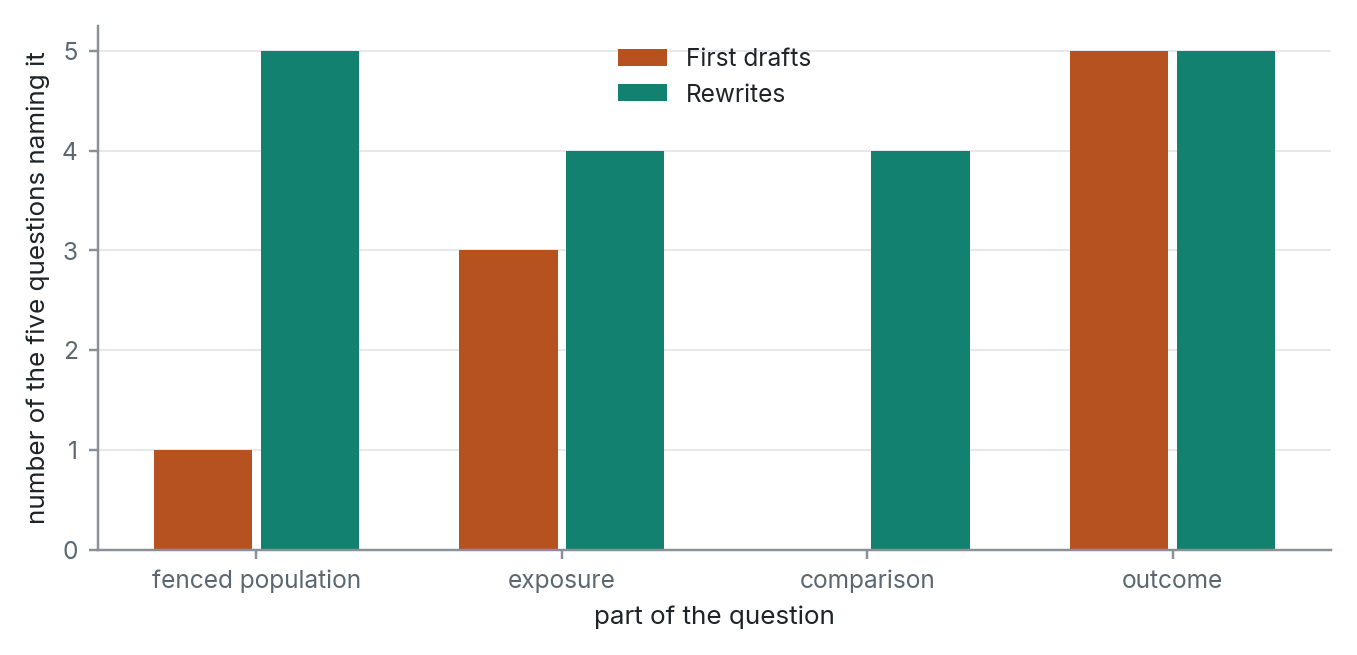
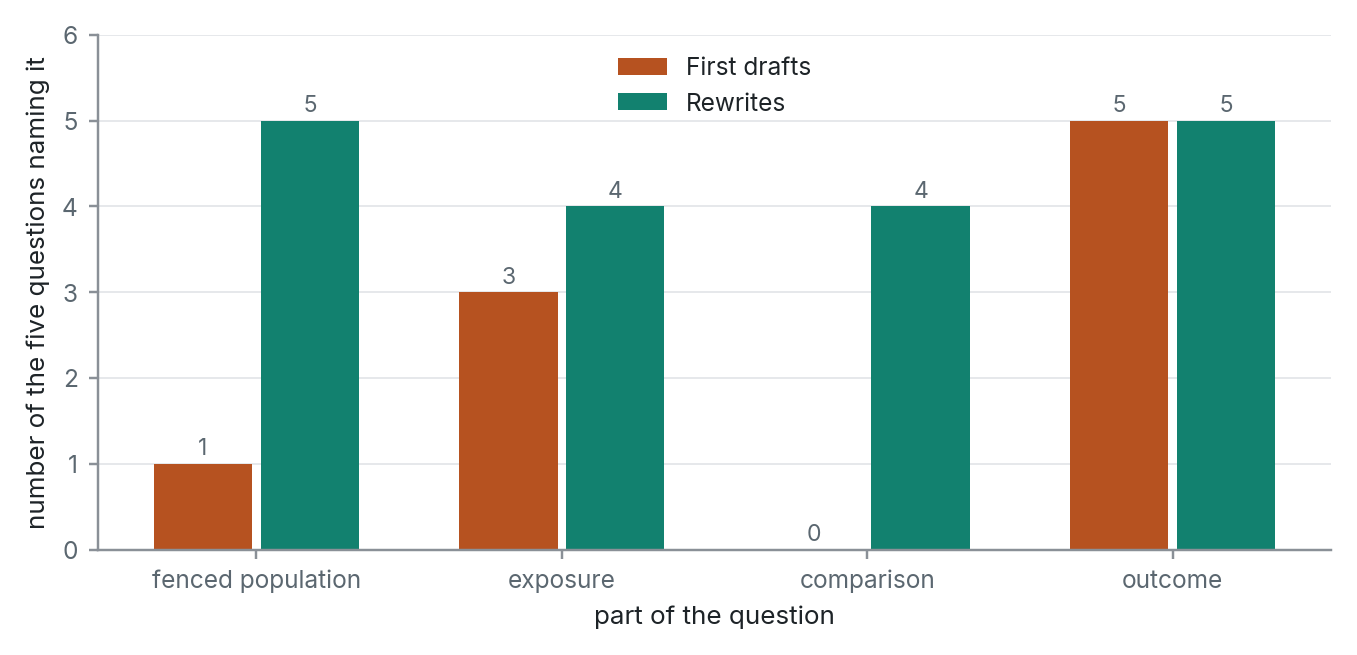
S55-R1 figure plan: 6 figures, 4 figure_notes; all looked at
Claude-Session: https://claude.ai/code/session_014gRuJddkgNa92fq184gnF6

diff --git a/books/S55-R1/FIGURE-BRIEF.md b/books/S55-R1/FIGURE-BRIEF.md
@@ -1,0 +1,33 @@
+# Figure planner brief · S55-R1 (PIPELINE.md "Figure plan")
+
+Repository `/home/claude/obesity-course`, branch `book/S55-R1`. Do not commit. Edit only the records
+in your range, and only their `figures:`, `figure_note` and `derived` entries — never their prose
+(the compression pass has fixed it; a compression that removed a number a spec used is a spec to
+fix, never a sentence to restore). Write figure files only under `check/figures/` with names
+`s55-r1-cNN-<what>.png`.
+
+Read `claude.md` §4 "Figures" (it now documents `curves`, `areas`, `refs`, negative bars and
+per-series colours) and `check/schema/example.concept.yml` (its `figures:` block). Then, for each
+record in your range, which now carries its compressed text:
+
+- **At least one figure a section; more is welcome** (Harsh's standing instruction: more figures
+  than Book 0, each mathematically correct and matching its text). Where a figure would teach
+  nothing the prose does not, write one line in `figure_note` instead. A quantitative section
+  always gets a figure of its worked relationship: the curve its formula draws, the area its
+  integral is, the point where a rate is zero, the weighted sum's parts.
+- Start from the drafter's specs. Each figure is a `figures:` entry with a `spec`: data from the
+  record's own ```table block where there is one (`from_table`), otherwise listed in the spec; every
+  number it plots or prints (data, labels, caption, alt text, axis titles, constants, endpoints)
+  stated in the record's prose or worked out under `derived`; every relationship drawn a `fit`,
+  `curve`, `area` or `check`. The caption says what the reader should see, in the section's terms.
+- Run `python check/figures/draw.py --book S55-R1` (it redraws every S55-R1 figure; another planner
+  runs it at the same time on other records, which is harmless) and `python check/build.py --check`
+  until no record in your range blocks. Then open each of your PNGs with the Read tool and look:
+  overlapping labels, a legend over the data, an unreadable axis, a line that says something the
+  section does not. Fix the spec and redraw; never edit a PNG.
+
+**This book is mostly qualitative.** Most sections teach a decision, not a quantity. The drawing tool plots only data (bars, lines, points, curves, areas) and **must not be edited** (`check/**` is frozen mid-flight under `PARALLEL.md`). A figure is right where the section has real numbers in its own text and teaches something: C06's citation figures (each with its database, cohort and window, as the text states them), C08's scores on the course's own sheet, C02's counts from its own worked material. Never invent numbers to make a chart, and never draw a qualitative idea dressed up as data. Where no honest figure exists, the `figure_note` names the diagram a reader would want in one line. **Known faults from the cold read** (books/S55-R1/DEFECTS.md): C02's and C08's figures describe worked examples that are not in the compressed text — make each figure's caption, alt text and data match what the text now holds, or replace the figure with one the text supports; never restore prose to fit a figure.
+
+Scratch in `/home/claude/scratch-fig-<batch>/`. Write `books/S55-R1/FIGURES-<batch>.md`: per
+section, the figures (file, what it shows, the check that holds it) or the figure_note. Return at
+most 150 words: figures per section, figure_notes, anything you could not make correct.

diff --git a/books/S55-R1/FIGURES-f1.md b/books/S55-R1/FIGURES-f1.md
@@ -1,0 +1,18 @@
+# S55-R1 figure plan, batch f1 (C01 to C08)
+
+Drawn with `python check/figures/draw.py --book S55-R1` (6 figures, 0 problems); `check/build.py --check`: 0 blocking. Every PNG was opened and inspected. No prose was edited.
+
+| Section | Figure or note | What it shows | What holds it |
+|---|---|---|---|
+| C01 | figure_note | No measured numbers. Wanted: a funnel of four candidates, one kept and three turned down with reasons. | none |
+| C02 | `s55-r1-c02-parts-named.png` (kept, caption fixed, value labels added) | How many of the five made-up drafts and rewrites name each part: 1→5, 3→4, 0→4, 5→5 | `from_table` block 3 (the count table in illustration 2, which the text now holds); checks y1[3]=5, y2[0]=5, y2[3]=5. The caption no longer says "the fifth is a how-common question" (rewrite 5 is PICO) and now says rewrite 1. DEFECTS H2 is resolved: the second illustration is back in the text. |
+| C03 | `s55-r1-c03-salsa-cases-controls.png` (new; replaces figure_note) | Hepatitis A outbreak, 2003: 94% of cases against 39% of controls ate salsa. The controls are what make the 94% mean anything. | Literal values, both stated in the text and table (as percentages, so they are not read from the table) |
+| C04 | figure_note | No measured numbers. Wanted: a flow through test 1, test 2 and narrowing steps 0 to 3. | none |
+| C05 | figure_note | No measured numbers. Wanted: a four-quadrant grid for Q1 to Q4. | none |
+| C06 | `s55-r1-c06-medians-by-design.png` (kept) | Patsopoulos medians by design, 1991 and 2001 | `from_table` block 1 |
+| C06 | `s55-r1-c06-uncited-shares.png` (new) | The six shares uncited (55, 4, 21, 12, 23, 18), each labelled with what was counted and when, with a reference line at half | Literal values; every number, year and window in the text; y=50 stated |
+| C06 | `s55-r1-c06-heneberg-check.png` (new) | About 1.6% uncited at first glance, 0.3% after checking by hand | Literal values stated in the text |
+| C07 | figure_note | Two questions answered in words; the one-in-ten threshold is a made-up remark. Wanted: a two-branch tree per candidate. | none |
+| C08 | `s55-r1-c08-totals-and-item-5.png` (kept, value labels added so zeros show) | Totals and item 5 scores for candidates A to J. The rule's five rejections are the item-5 zeros. B and I tie at 9. | `from_table` block 1 (the score table, now in the text); checks y1[1]=9, y1[0]=8, y2[0]=0. DEFECTS H19 is resolved: the candidates and item 4 scores are now in the text. |
+
+Housekeeping: I deleted the orphan `check/figures/s55-r1-c06-window.spec.json`, which had no PNG and no figure entry.

diff --git a/books/S55-R1/STATE.md b/books/S55-R1/STATE.md
@@ -8,12 +8,12 @@ Parallel with S37-R1 and S57-R1 (third concurrent book, on Harsh's request by na
 | Step | State |
 | --- | --- |
 | Claim (claude/books/S55-R1.md, Notion row), book.yml, series | done |
-| Task 1 inventory, READY.md | next |
-| Source intake | |
-| Task 2 draft | |
-| Task 5 compression | |
-| Figure plan | |
+| Task 1 inventory, READY.md | done: 8 concepts (C02, C08 quantitative); map O3 not supported, taught as a checked claim |
+| Source intake | done: 11 new + Blackstone ch.4; Companies Act withdrawn (India Code terms); 4 Harsh PDFs added (Patsopoulos 2005, Chalmers & Glasziou 2009, Chalmers 2014, Nicolaisen & Frandsen 2019); verbatim 65/65 |
+| Task 2 draft | done: 4 batches + revision b5; C02 10 problems, C08 9; 3 figures |
+| Task 5 compression | done: 4 cutters (38-68%), cold read 70 gaps, 2 restorers (30 restored, 39 holes, 4 not a defect); writeback after backup; holes in DEFECTS.md. Words 9,815 -> 5,808 |
+| Figure plan | done: 6 drawn (C02, C03, C06 x3, C08), 4 figure_notes; conductor looked at all 6. For audit: C06 uncited-shares 5th bar label ("letters, notes") may misdescribe what the 23% counts |
 | Task 3 audit, 4 fix, 4b verify | |
 | Glossary merge, build, PDF | |
 
-Next action: Task 1 (one Opus subagent).
+Next action: figure plan, then audit (Task 3) with the DEFECTS.md holes.
